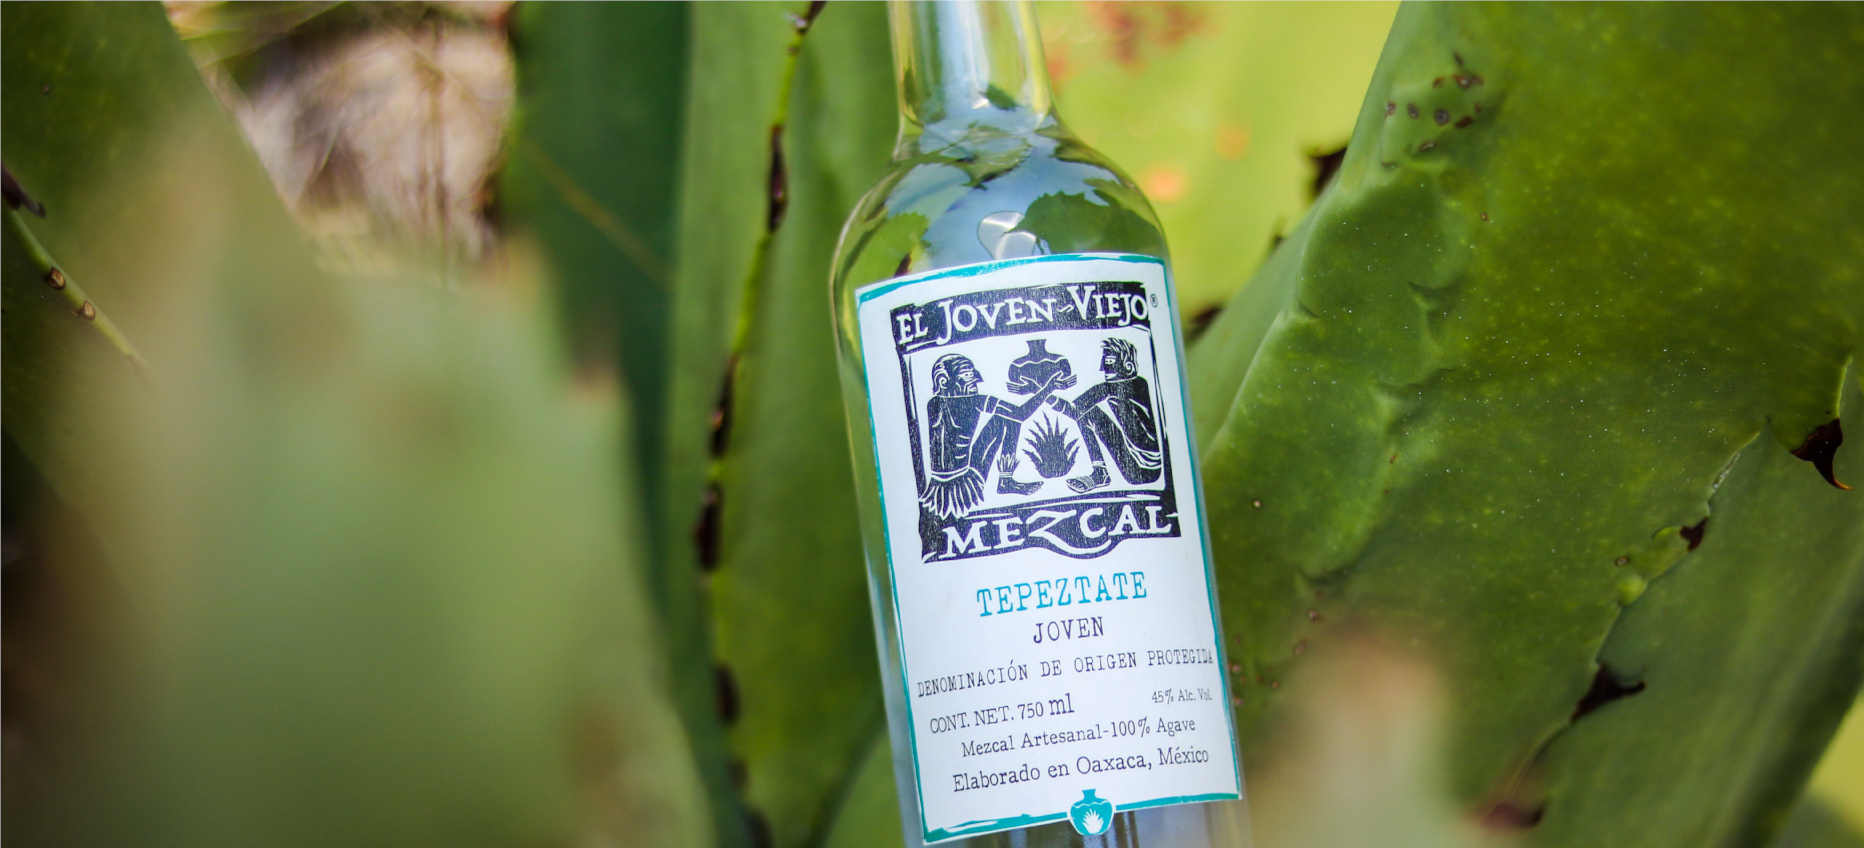
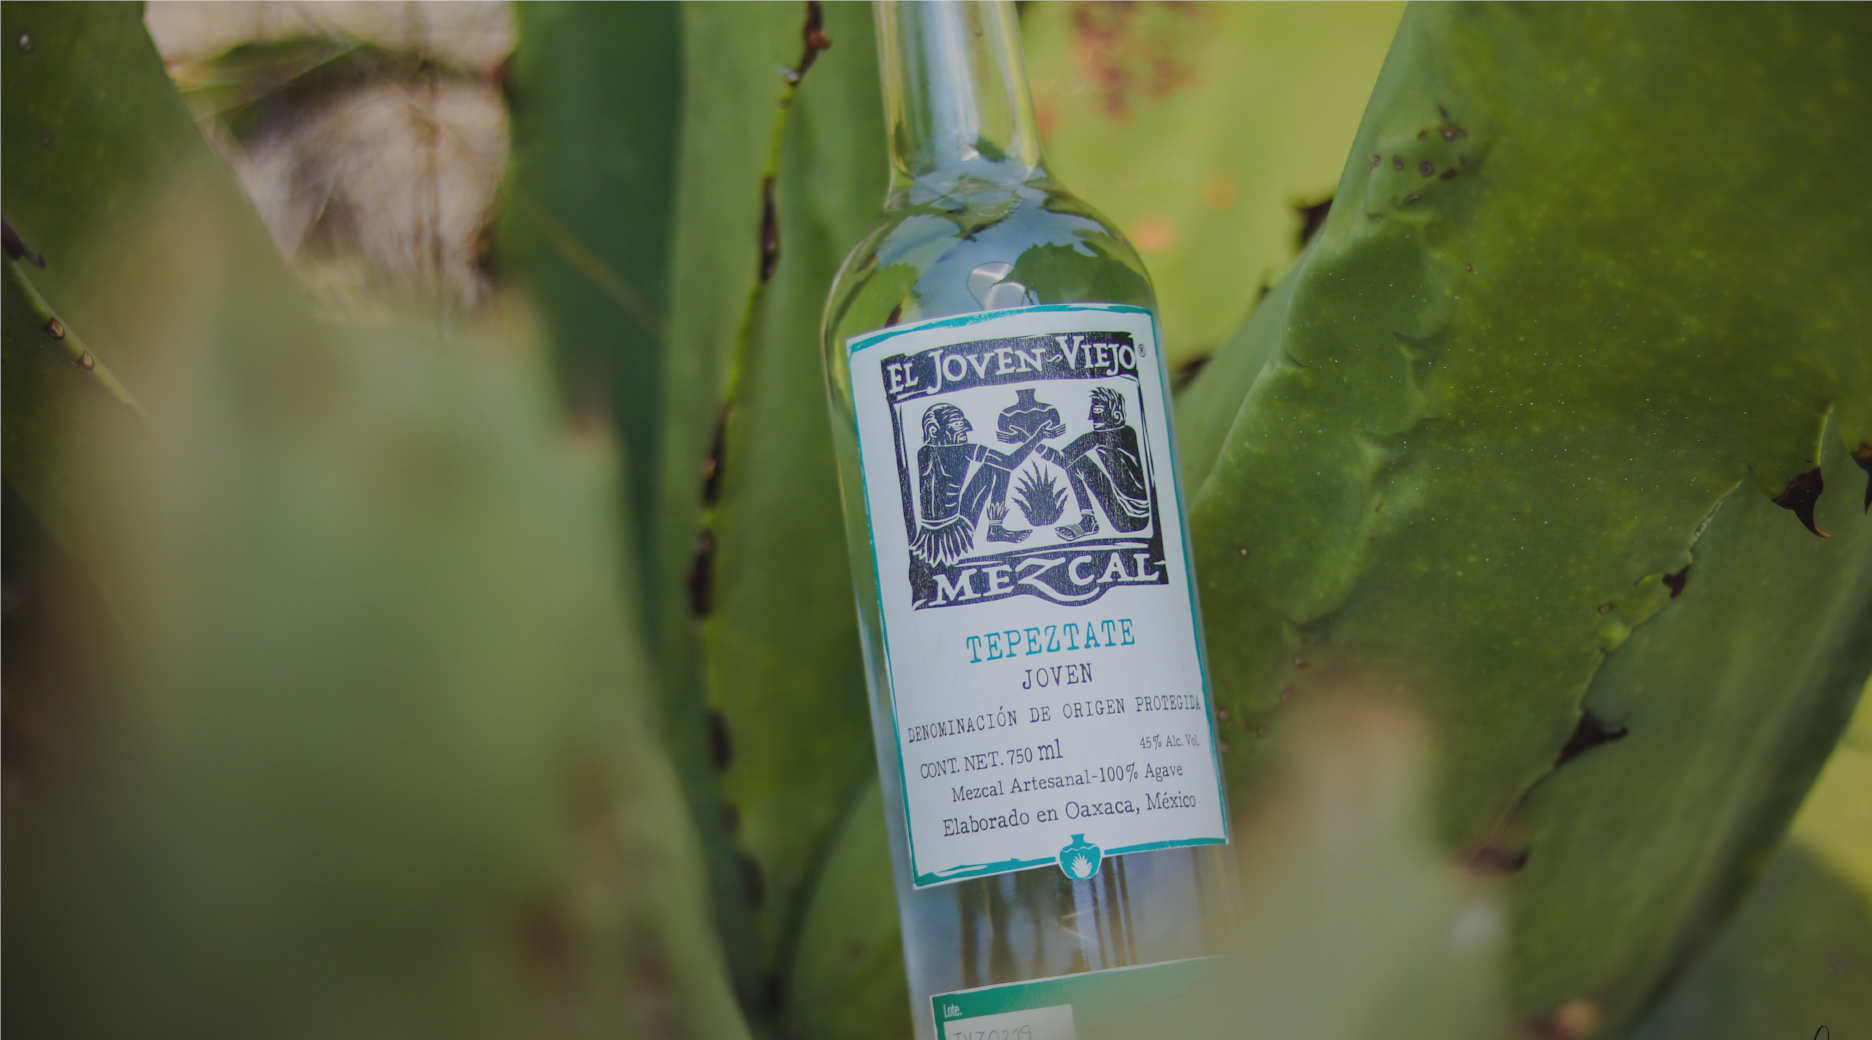
Slider ready

diff --git a/css/flash_child_custom.css b/css/flash_child_custom.css
@@ -8,7 +8,7 @@
 
 .swiper-container {
     width: 100%;
-    height: 80vh;
+    height: 65vh;
     min-height: 300px;
     max-height: 600px;
 }

diff --git a/includes/slider.php b/includes/slider.php
@@ -4,8 +4,8 @@
     <div class="swiper-wrapper">
         <!-- Slides -->
         <div class="swiper-slide"> <img src="<?php echo get_stylesheet_directory_uri(); ?>/img/slide1.jpg" alt=""> </div>
-        <div class="swiper-slide">Slide 2</div>
-        <div class="swiper-slide">Slide 3</div>
+        <div class="swiper-slide"> <img src="<?php echo get_stylesheet_directory_uri(); ?>/img/slide2.jpg" alt=""> </div>
+        <div class="swiper-slide"> <img src="<?php echo get_stylesheet_directory_uri(); ?>/img/slide3.jpg" alt=""> </div>
         ...
     </div>
     <!-- If we need pagination -->
